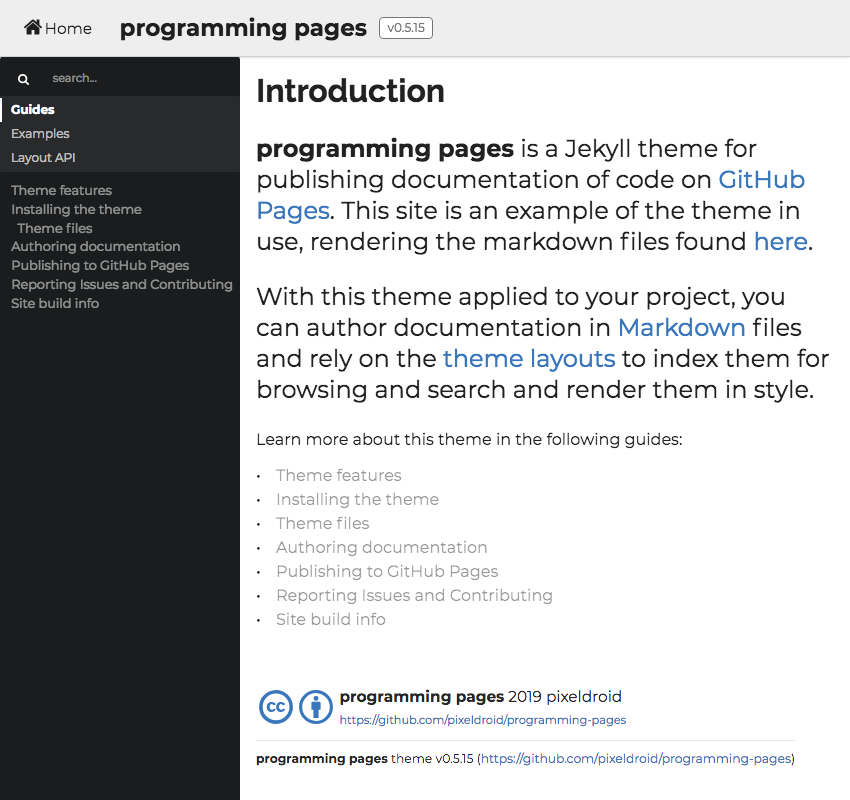
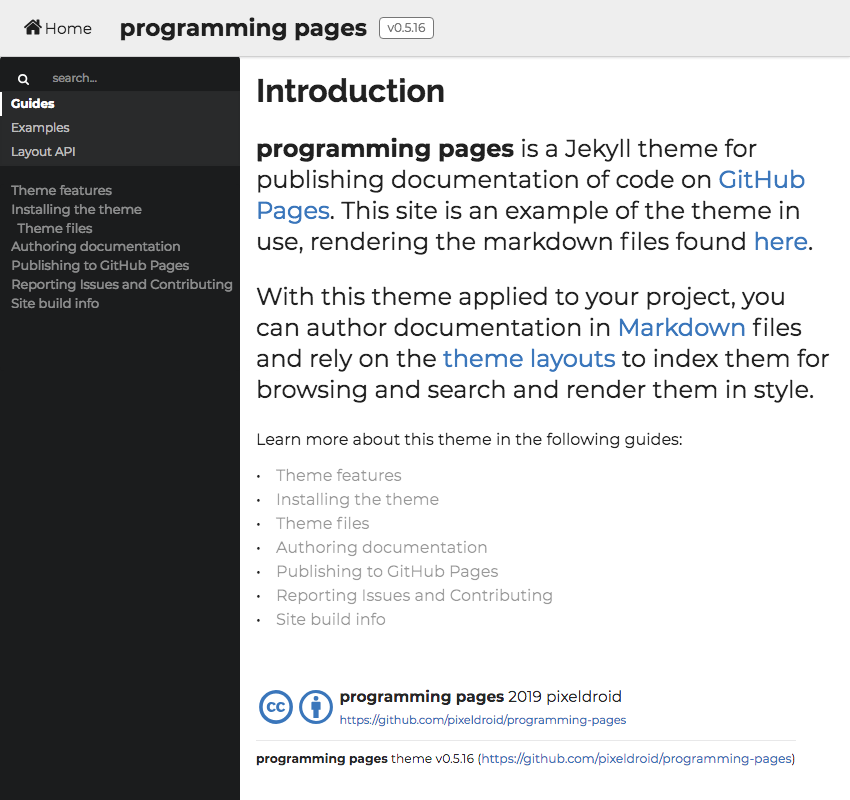
update version to 0.5.16

Changed region(s): [[0.5506, 0.9375, 0.9482, 0.9688], [0.0, 0.125, 0.0918, 0.2188]]

diff --git a/_layouts/page.html b/_layouts/page.html
@@ -1,6 +1,6 @@
 ---
 layout: base
-theme_version: 0.5.15
+theme_version: 0.5.16
 theme_url: https://github.com/pixeldroid/programming-pages
 ---
 
